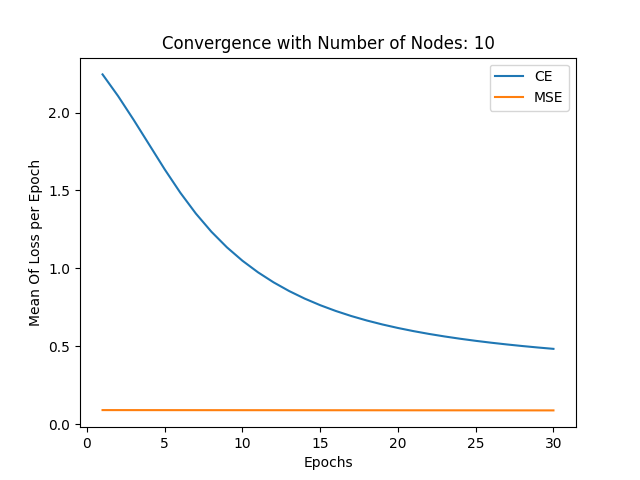
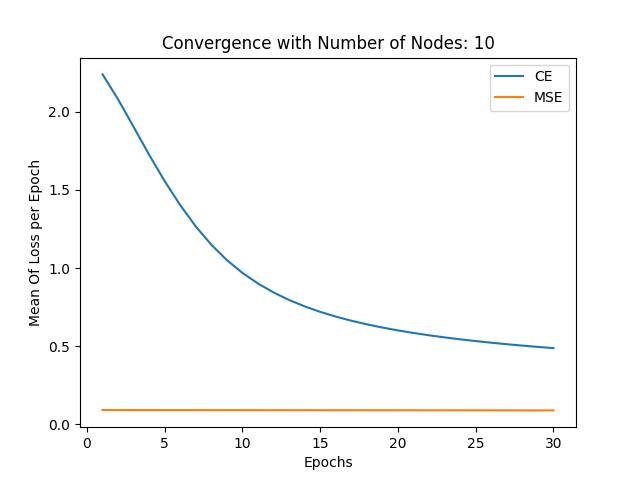
done st

diff --git a/report/ci_1059666.tex b/report/ci_1059666.tex
@@ -13,6 +13,8 @@
 %\usepackage{enumitem}  
 \usepackage{amsmath}
 \usepackage{hyperref,xcolor} 
+\usepackage{subcaption}
+
 \hypersetup{
     colorlinks,
     linkcolor={black!50!black},
@@ -72,21 +74,39 @@
         $$ f(x)=\max(0,x)$$ \includegraphics[ height=6cm, center]{images/relu_graph.png} \\ 
         Χρησιμοποιώντας τη \tl{ReLU} πετυχαίνουμε αρκέτα πράγματα εξαιτίας της φύσης του συνόλου δεδομένων που έχουμε. Αρχικά τα δεδομένα είναι αρκετά αραιά, οπότε για κάθε είσοδο δεν θα ενεργοποιούνται όλοι οι νευρώνες, με αποτέλεσμα οι τιμές που δεν προσφέρουν κάποια πληροφορία στο νευρωνικό να μην επηρεάζουν την εκπαίδευση. Επίσης τα μητρώα έχουν τις τιμές που μας ενδιαφέρουν κοντά στο κέντρο, οπότε κατα την πρόοδο της εκπαίδευση θα δούμε μεγάλη βελτιώση αφού θα είναι αρκετά εύκολο για το νευρωνικό να τοποθετήσει τα σωστά βάρη στους κόμβους. Τέλος προσφέρει πολύ μικρή υπλογιστική πολυπλοκότητα στο δίκτυο μας, αφού το μόνο που κάνει είναι απλά μία σύγκριση. 
 
-        \item Στο επίπεδο έξοδου θα χρησιμοποιήσουμε την συνάρτηση \tl{Softmax}, διότι συναρτήσεις όπως  η σιγμοιειδής δεν μπόρει να μας βοηθήσει σε ένα πρόβλημα κατηγοριοποίησης σε περισσότερες από δύο κλάσεις όπως αυτό που έχουμε εδώ.  Αυτό που κάνει η \tl{Softmax} και μας είναι απαραίτητο στο συγκεκριμένο πρόβλημα είναι οτι στη έξοδο συμπικνώνει τις τιμές μεταξύ του διαστήματος $[0-1]$ και το άθροισμα των εξόδων ισούται με $1$. Άρα πρακτικά η συνάρτηση μας δίνει σαν έξοδο την πιθανότητα να ανήκει η είσοδος μας σε κάθε κατηγορία.
+        \item Στο επίπεδο έξοδου θα χρησιμοποιήσουμε την συνάρτηση \tl{Softmax}, διότι συναρτήσεις όπως  η σιγμοιειδής δεν μπόρει να μας βοηθήσει σε ένα πρόβλημα κατηγοριοποίησης σε περισσότερες από δύο κλάσεις όπως αυτό που έχουμε εδώ.  Αυτό που κάνει η \tl{Softmax} και μας είναι απαραίτητο στο συγκεκριμένο πρόβλημα είναι οτι στη έξοδο συμπικνώνει τις τιμές μεταξύ του διαστήματος $[0,1]$ και το άθροισμα των εξόδων ισούται με $1$. Άρα πρακτικά η συνάρτηση μας δίνει σαν έξοδο την πιθανότητα να ανήκει η είσοδος μας σε κάθε κατηγορία.
 
-        \item a \\ 
+        \item Για τα παρακάτω αποτελέσματα χρησιμοποιήθηκαν 30 εποχές εκπαίδευση.
 
-         \begin{tabular}{c | c | c}
-            Αριθμός νευρώνων στο κρυφό επίπεδο & \tl{CE loss} & \tl{MSE} \\
-            $H_1 = O$       & 0,527 & 0,088 \\ 
-            $H_1 = (I+O)/2$ & 0,432 & 0,084 \\ 
-            $H_1 = I+O$     & 0,405 & 0,084 
-            
-        \end{tabular}
-        \begin{enumerate}[i)]
-            \item j
-            \item
-        \end{enumerate}
+            \begin{tabular}{c | c | c}
+                Αριθμός νευρώνων στο κρυφό επίπεδο & \tl{CE loss} & \tl{MSE} \\
+                $H_1 = O$       & 0,487 & 0,087 \\ 
+                $H_1 = (I+O)/2$ & 0,385 & 0,0832 \\ 
+                $H_1 = I+O$     & 0,378 & 0,0833 
+                
+            \end{tabular}
+            \\
+            Παρακάτω φαίνονται οι γραφικές παραστάσεις: 
+            \begin{figure}[H]
+                \raggedright
+                    \begin{subfigure}[t]{0.5\textwidth}
+                        \includegraphics[width=10cm,height=7cm,left]{images/10.png}
+                    \end{subfigure}
+                    \begin{subfigure}[t]{0.5\textwidth}
+                        \includegraphics[width=10cm,height=7cm,left]{images/397.png} 
+                    \end{subfigure}
+                    \begin{subfigure}[t]{0.5\textwidth}
+                        \includegraphics[width=10cm,height=7cm,left]{images/794.png} 
+                    \end{subfigure}
+            \end{figure}
+
+            \begin{enumerate}[i)]
+                \item  Από τα παραπάνω αποτελέσματα παρατηρούμε ότι η εκπαίδευση που είχε πλήθος κρυφών κόμβων ίσο με τον αριθμό των εξόδων παρουσίασε μεγαλύτερο λάθος. Οι υπόλοιπες δύο μετρήσεις είχαν πλήθος κόμβων αρκέτα μεγαλύτερο του αριθμού των εξόδων και παρατηρούμε ότι το λάθος σε αυτές τις μετρήσεις είναι μικρότερο. Το οποίο είναι αναμενόμενο αφού όσους περισσότερους κόμβους έχουμε στο κρυφό επίπεδο τόσο πιο πολύπλοκο θα είναι το νευρωνικό μας δίκτυο με απότελεσμα να έχει καλύτερη ακρίβεια. Ένας σημαντικός παράγοντας όμως είναι και ο χρόνος που χρειάστηκε να εκπαιδευτεί το νευρωνικό μας. Περισσότερων χρόνο κατανάλωσαν το νευρωνικό που είχε $794$ κρυφούς κόμβους, οπότε βέλτιστος αριθμός κόμβος είναι $H_1 = 397$ αφού η διαφόρα στο \tl{loss} είναι ελάχιστη αλλά η ταχύτητα εκπαίδευσης σαφώς μεγαλύτερη.
+                \item Εστιάζοντας στη συνάρτηση κόστους κάποιος θα μπορούσε να πει ότι με βάση \tl{MSE} το νευρωνικό μας κάνει πολύ σπάνια λάθος, πράγμα που δεν είναι σώστο. Δίοτι παρατηρήθηκε οτί ναι μεν η συνάρτηση κόστους \tl{MSE}  μπόρει να δείχνει ότι το λάθος του νευρωνικού μας είναι σχεδόν μηδενικό αλλά η ακρίβεια του ήταν κάκιστη. Το αποτέλεσμα αυτό ήταν αρκετά προβλέψιμο αφού το η συνάρτηση κόστους \tl{MSE}  δεν είναι η κατάλλη συνάρτηση για προβλήματα ταξινόμησης σε κλάσεις. Από την άλλη η συνάρτηση κόστους \tl{CE} αντικαντροπτίζει την πράγματικότητα της απόδοσης του νευρωνικού μας αφού η λειτουργεία της απευθύνεται σε προβλήματα ταξινόμησης όπως το δικό μας. Ο λόγο που κάθιστά την \tl{CE} καταλληλότερη από την \tl{MSE} αναφέρεται παραπάνω στο ερώτημα Α3.α.
+                \item Παρατηρότνας τις γραφικές παραστάσεις βλέπουμε ότι τις πρώτες 10 εποχές η ταχύτητα σύγκλισης είναι μεγαλύτερη από τις υπόλοιπες. Αυτό συμβαίνει δίοτι αρχίκα το νευρωνικό μας δεν έχει τοποθετήσει κάποια βάρυ στους νευρώνες. Με αποτέλεσμα αρχίκα να κάνει αρκέτα λάθη αλλά κάθως επέρχονται οι επόχες και μετά από τις συνεχείς διορθώσεις βαρών φθάνει σε κάποιο σημείο όπου οι μεταβολές στα βάρη είναι μικρότερες, για αυτό και παρατήρουμε την καμπύλη στις τελευταίες επόχες να μεταβάλεται ελάχιστα.
+            \end{enumerate}
+
+        \item 
 
 
         

diff --git a/mnist_ci.py b/mnist_ci.py
@@ -168,7 +168,7 @@ for node in hidden_nodes:
         plots.legend()
         pyplot.title("Convergence with Number of Nodes: " +  str(node))
         pyplot.show()
-        fig.savefig('%s.png' % str(node))
+        fig.savefig('report/images/%s.png' % str(node))
         
     
 
